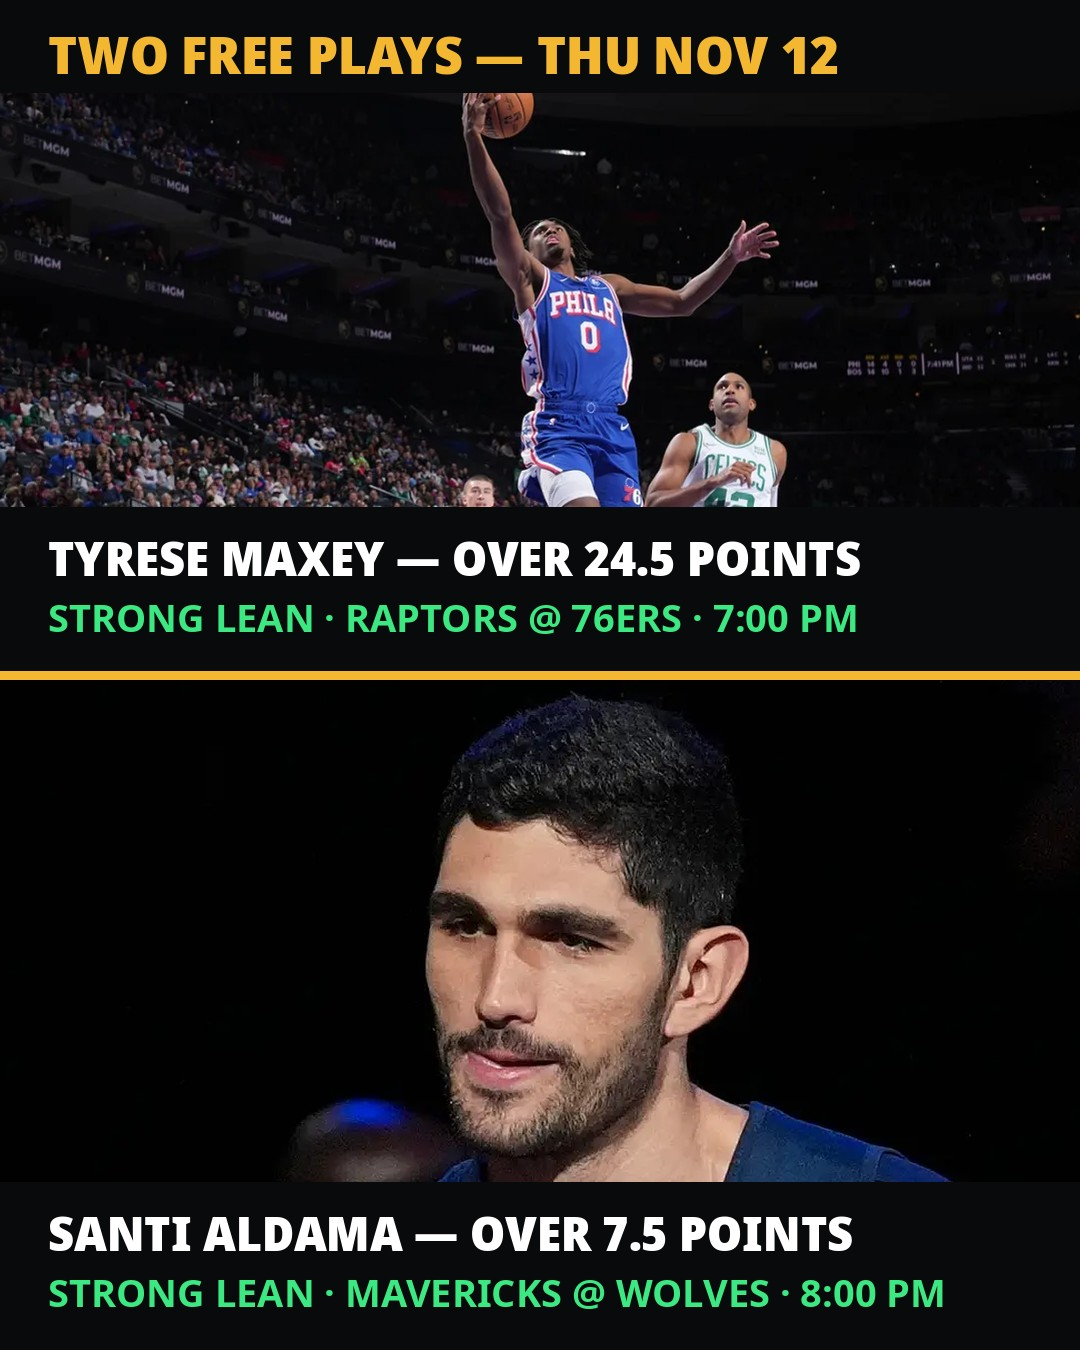
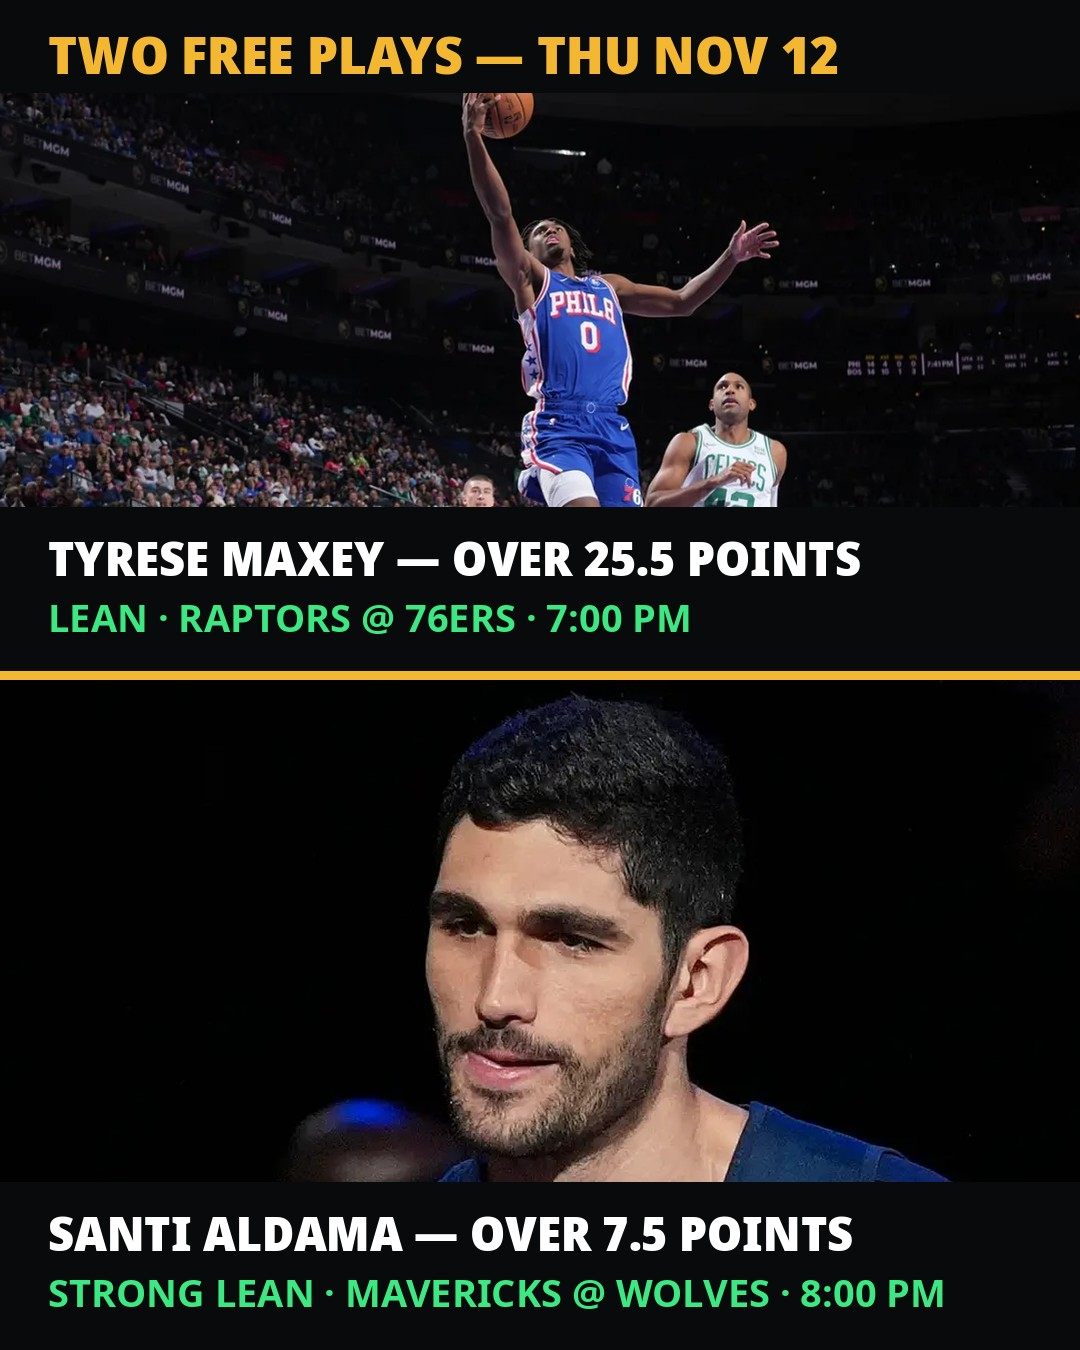
Maxey line correction: PrizePicks posts 25.5 — LEAN (2026-11-12)

Changed region(s): [[0.0306, 0.4044, 0.7944, 0.4667]]

diff --git a/index.html b/index.html
@@ -195,10 +195,10 @@
         <div class="legs">
           <div class="leg">
             <div class="who">Tyrese Maxey</div>
-            <div class="play">OVER 24.5 Points</div>
-            <span class="grade">STRONG LEAN</span>
+            <div class="play">OVER 25.5 Points</div>
+            <span class="grade lean">LEAN</span>
             <p class="game">Raptors @ 76ers — 7:00 PM ET</p>
-            <p>He IS the offense — 26.7 points a night, over this number in 7 of his last 10, 25+ in 9 of 12 games. Toronto is on a back-to-back, short-handed, and Embiid and LeBron are both questionable — the usage floor is his either way.</p>
+            <p>He IS the offense — 26.7 points a night, and the desk's Script Index has him over 25.5 in 9 of his last 10. Toronto is on a back-to-back, short-handed, and Embiid and LeBron are both questionable — the usage floor is his either way. PrizePicks posts 25.5, a point above the books — at that number the honest label is LEAN.</p>
           </div>
           <div class="leg">
             <div class="who">Santi Aldama</div>
